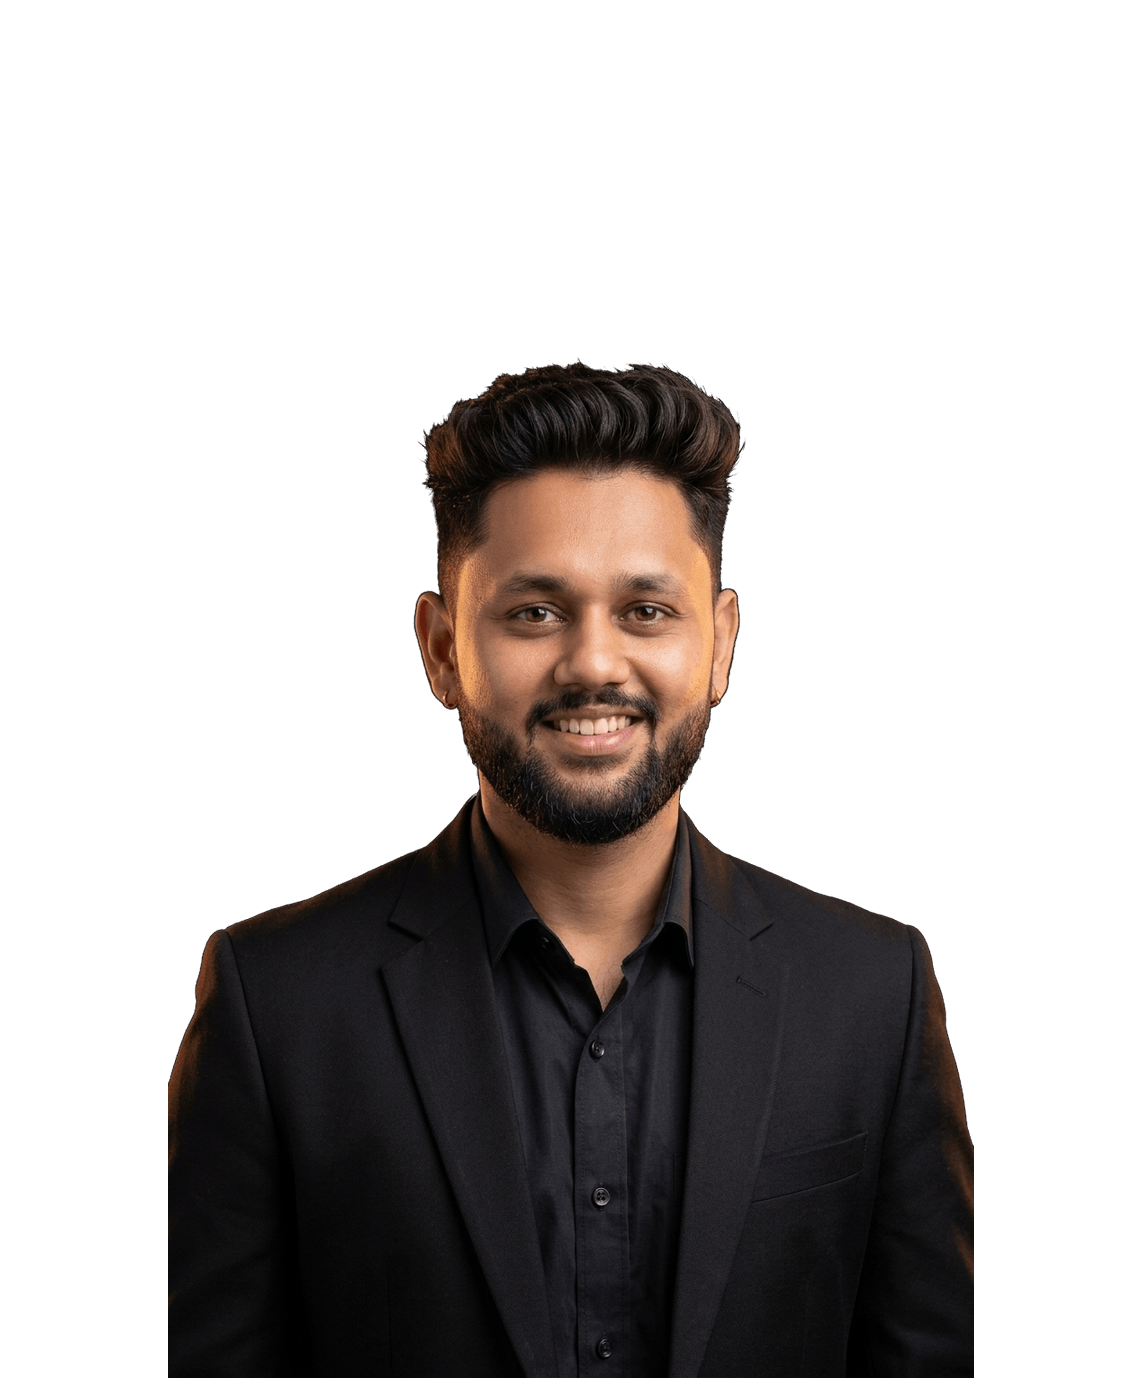
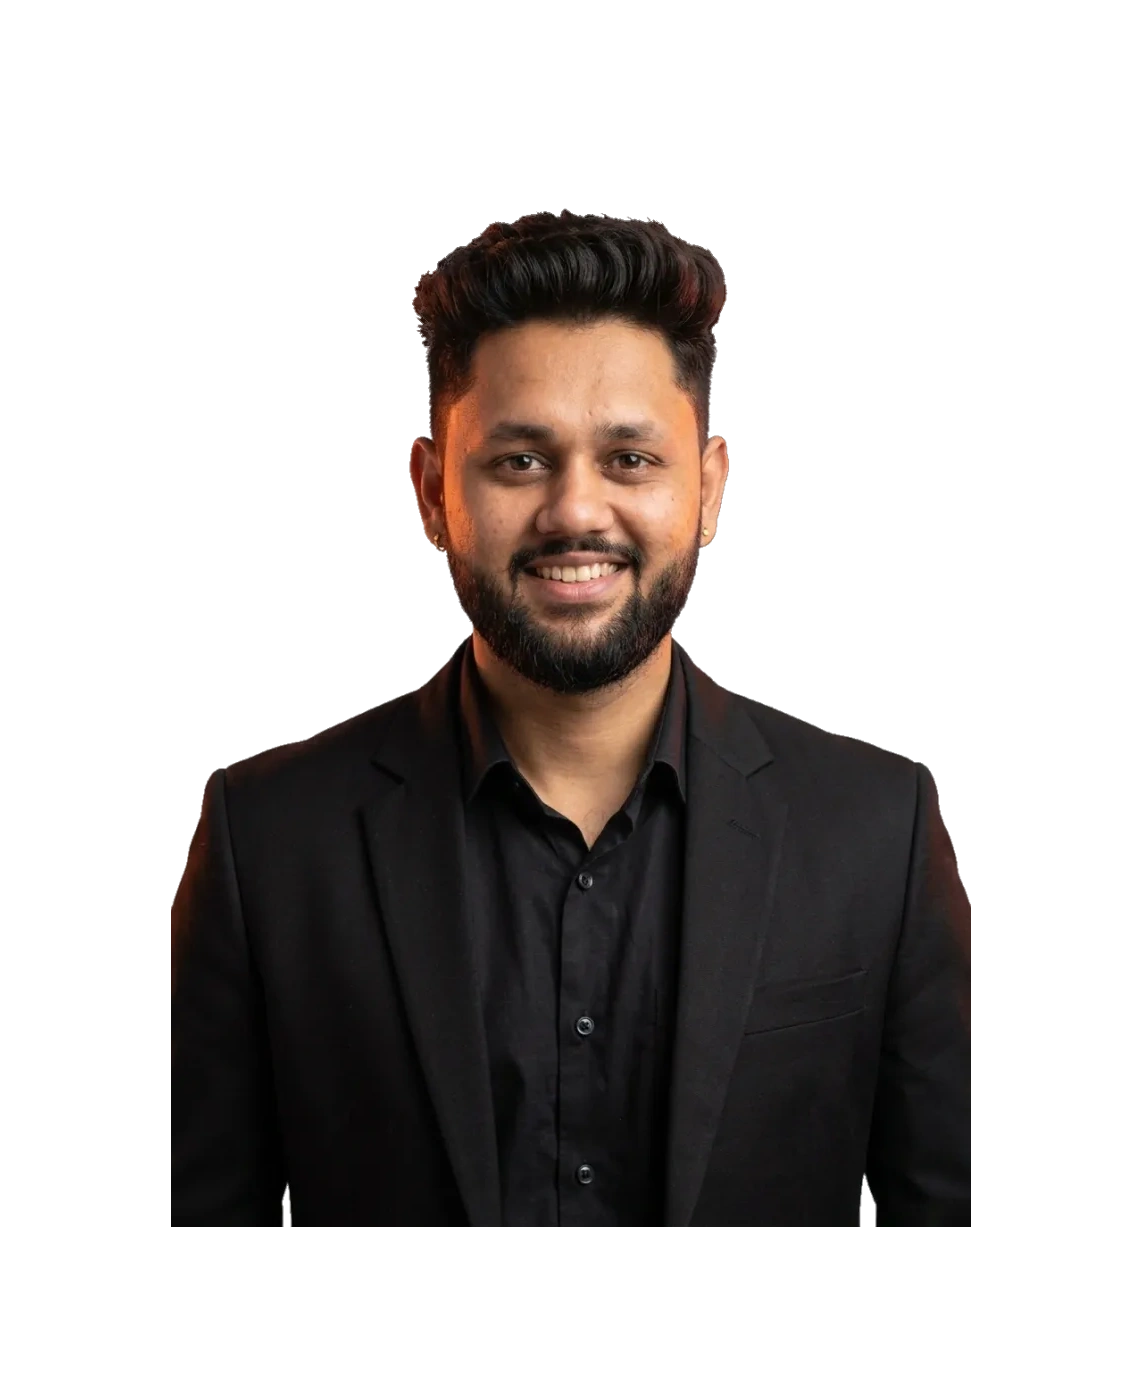
feat(portfolio): integrate verified GitHub repository links and truthful status for JARVIS OS and RLOE

diff --git a/src/components/Portfolio.jsx b/src/components/Portfolio.jsx
@@ -1,7 +1,7 @@
 import React, { useRef, useEffect, useState } from 'react';
 import gsap from 'gsap';
 import { ScrollTrigger } from 'gsap/ScrollTrigger';
-import { Maximize2, X, CheckCircle2 } from 'lucide-react';
+import { Maximize2, X, CheckCircle2, Github, ExternalLink } from 'lucide-react';
 import SplitText from './SplitText';
 
 gsap.registerPlugin(ScrollTrigger);
@@ -13,12 +13,13 @@ const projects = [
     shortName: 'Revenue Lifecycle Orchestration',
     subtitle: 'Event-Driven GTM Automation  •  n8n',
     description:
-      'An event-driven GTM automation system that combines intent ingestion, cache-first deduplication, enrichment, deterministic qualification, AI-assisted routing, CRM synchronization, and telemetry.',
+      'An event-driven GTM automation workflow template combining intent ingestion, cache-first deduplication, Clay waterfall enrichment, deterministic scoring, and gated Claude routing.',
     imgSrc: '/media/projects/rloe-workflow.webp',
     highResSrc: '/media/projects/rloe-workflow.webp',
-    badge: 'Production Engine',
+    badge: 'Workflow Template',
     badgeColor: '#10B981',
     windowLabel: 'n8n Workflow • RLOE Canvas',
+    repoUrl: 'https://github.com/yatinjoshi05/revenue-lifecycle-orchestration-engine',
     tags: ['n8n Event Stream', 'Supabase Cache', 'Clay Waterfall', 'HubSpot Sync']
   },
   {
@@ -27,27 +28,29 @@ const projects = [
     shortName: 'GTM Account Intelligence',
     subtitle: 'CRM Coverage  •  Pipeline Visibility',
     description:
-      'A CRM interface for account coverage, pipeline visibility, relationship health, and operational gaps, designed to work alongside the RLOE automation system.',
+      'A CRM interface for account coverage, pipeline visibility, relationship health, and operational triage, operating alongside the RLOE automation engine.',
     imgSrc: '/media/projects/gtm-crm-dashboard.webp',
     highResSrc: '/media/projects/gtm-crm-dashboard.webp',
     badge: 'CRM Interface',
     badgeColor: '#3B82F6',
     windowLabel: 'GTM CRM • Accounts Health',
+    repoUrl: 'https://github.com/yatinjoshi05/revenue-lifecycle-orchestration-engine',
     tags: ['Account Coverage', 'Pipeline Health Audit', 'Operational Gaps']
   },
   {
     id: 'jarvis-os',
     name: 'JARVIS OS — Personal AI Operating System',
     shortName: 'JARVIS OS — AI System',
-    subtitle: 'AI Agent Workspaces  •  HUD Interface',
+    subtitle: 'Desktop Assistant  •  HUD Interface',
     description:
-      'A personal AI operating-system concept combining an assistant interface, quick actions, workspace organization, memory, coding tools, and task management.',
+      'A personal AI desktop assistant and operating environment combining an assistant HUD, 3D Quantum Globe interface, associative memory engine, and media studio (In Progress).',
     imgSrc: '/media/projects/jarvis-os.webp',
     highResSrc: '/media/projects/jarvis-os.webp',
-    badge: 'AI System Concept',
+    badge: 'In Progress • WIP',
     badgeColor: '#EC4899',
     windowLabel: 'JARVIS OS v1.0.0 • Command HUD',
-    tags: ['Agent Interface', 'Particle HUD', 'Memory & Coding Tools']
+    repoUrl: 'https://github.com/yatinjoshi05/jarvis-os',
+    tags: ['Tauri Shell', '3D Quantum Globe', 'Memory & Coding Tools']
   },
   {
     id: 'rloe-architecture',
@@ -61,6 +64,7 @@ const projects = [
     badge: 'System Architecture',
     badgeColor: '#F59E0B',
     windowLabel: 'RLOE Architecture • 8-Stage Pipeline',
+    repoUrl: 'https://github.com/yatinjoshi05/revenue-lifecycle-orchestration-engine',
     tags: ['Signal Ingestion', 'Cache-First Dedupe', 'Deterministic Gate', 'Telemetry']
   }
 ];
@@ -340,6 +344,19 @@ export default function Portfolio() {
                     >
                       {p.badge}
                     </span>
+                    {p.repoUrl && (
+                      <a
+                        href={p.repoUrl}
+                        target="_blank"
+                        rel="noopener noreferrer"
+                        onClick={(e) => e.stopPropagation()}
+                        aria-label={`View ${p.name} on GitHub`}
+                        className="flex items-center gap-1 text-[0.72vw] max-[1025px]:text-[1.8vw] max-md:text-[2.6vw] px-2 py-1 rounded-md bg-white/10 hover:bg-white/20 text-white transition-colors cursor-pointer shrink-0"
+                      >
+                        <Github className="w-3 h-3 max-md:w-3.5 max-md:h-3.5" />
+                        <span className="max-md:hidden">GitHub</span>
+                      </a>
+                    )}
                     <button
                       onClick={(e) => {
                         e.stopPropagation();
@@ -461,9 +478,23 @@ export default function Portfolio() {
                 ))}
               </div>
 
-              <div className="flex items-center gap-1.5 text-white/50 text-xs">
-                <span>Production Architecture</span>
-                <CheckCircle2 className="w-3.5 h-3.5 text-emerald-400" />
+              <div className="flex items-center gap-2">
+                {modalProject.repoUrl && (
+                  <a
+                    href={modalProject.repoUrl}
+                    target="_blank"
+                    rel="noopener noreferrer"
+                    className="flex items-center gap-1.5 px-3 py-1.5 rounded-lg bg-white/10 hover:bg-white/20 text-white text-xs font-mono transition-colors"
+                  >
+                    <Github className="w-3.5 h-3.5" />
+                    <span>GitHub Repo</span>
+                    <ExternalLink className="w-3 h-3 text-white/60 ml-0.5" />
+                  </a>
+                )}
+                <div className="flex items-center gap-1.5 text-white/50 text-xs">
+                  <span>Architecture</span>
+                  <CheckCircle2 className="w-3.5 h-3.5 text-emerald-400" />
+                </div>
               </div>
             </div>
           </div>
